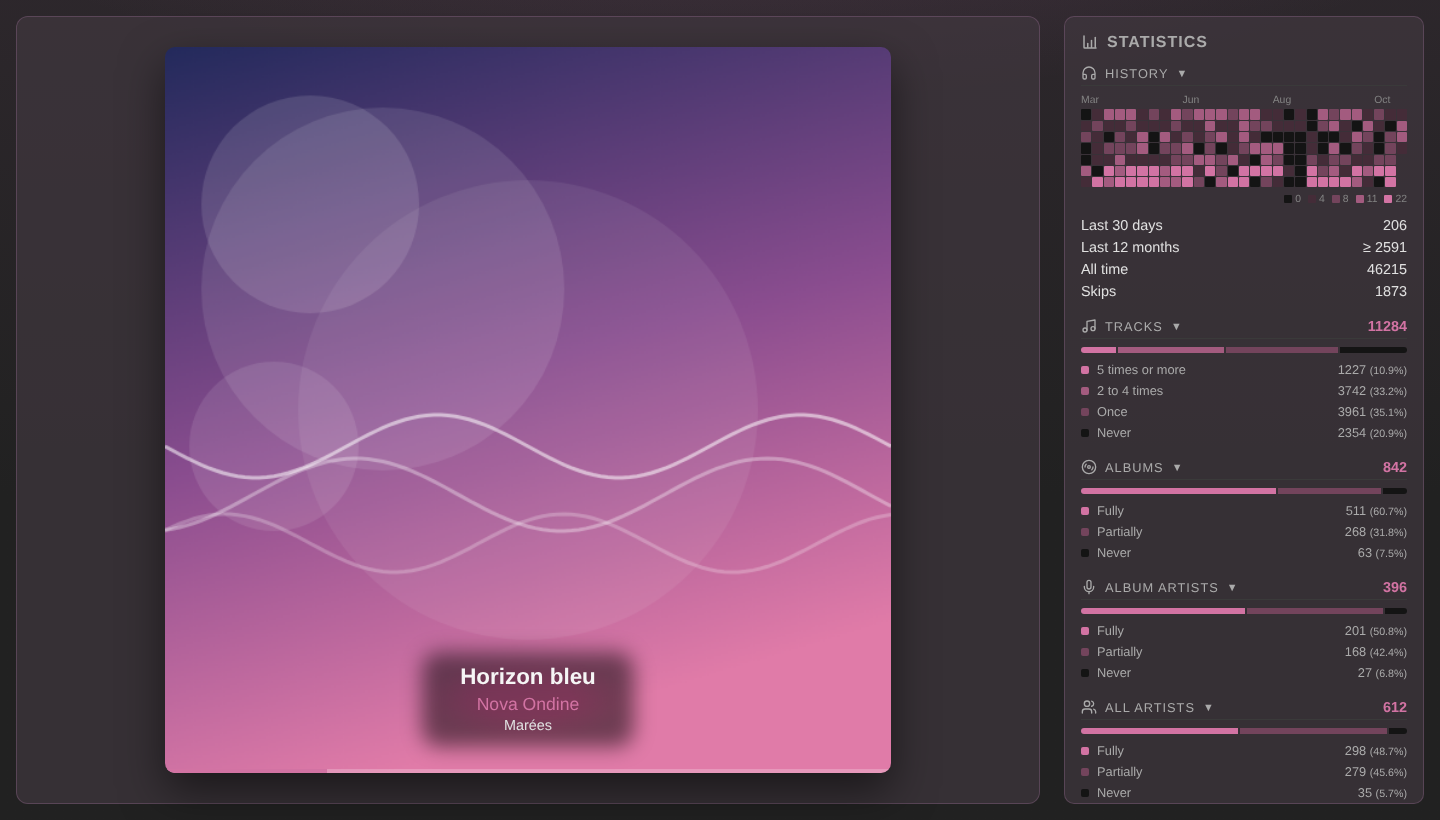
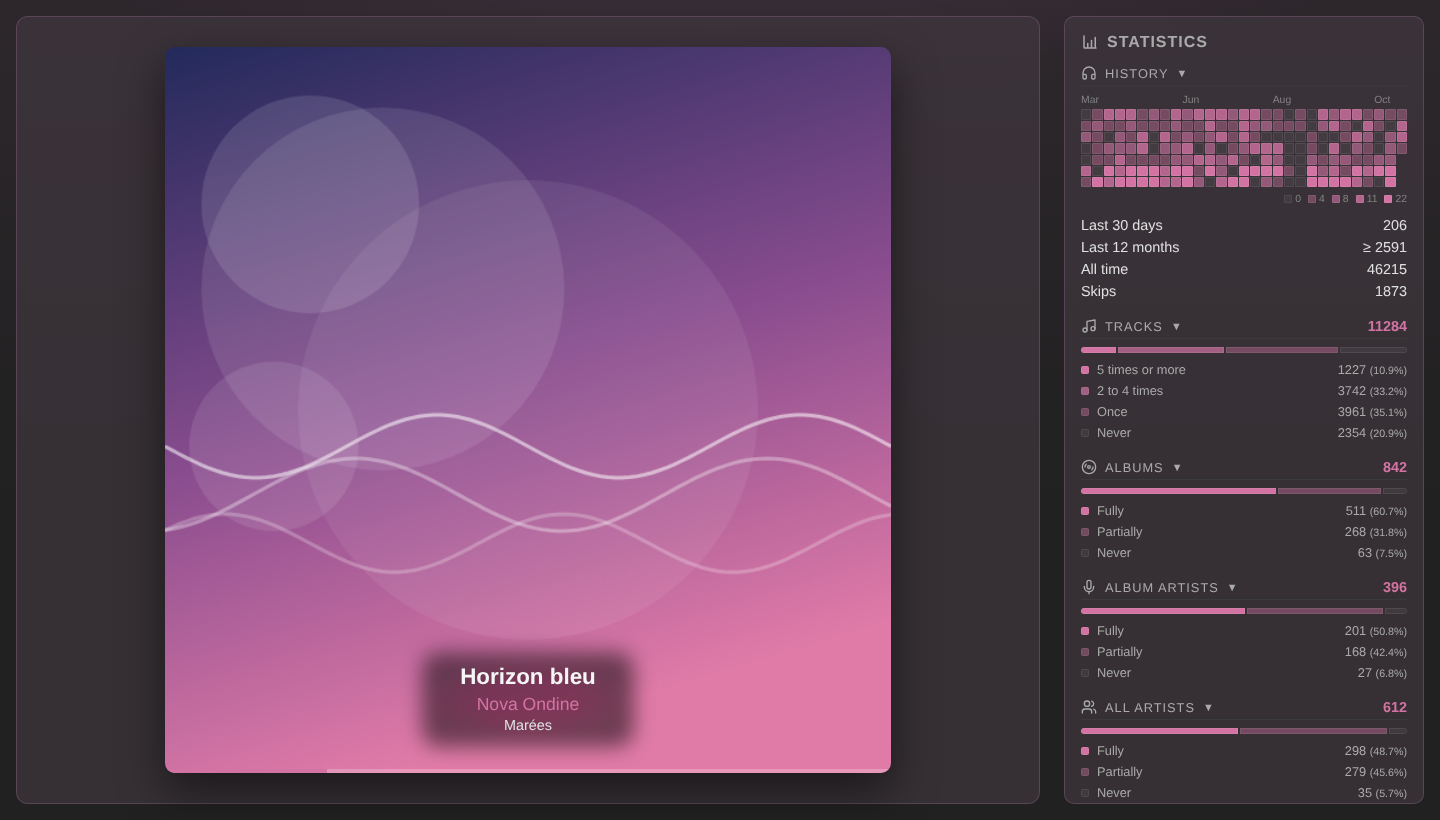
fix(stats): shade the calendar and completion bars over the card, not black (#161)
* fix(stats): shade the listening calendar over the card, not black

The calendar mixed its shades into the near-black --nothing, so the
first quartile came out as a dark brown that sank into the card while
a zero day stood out in black. Shades are now the accent at 40/60/80%
opacity over the card, a zero day a 5% white veil, and every shaded
cell carries a translucent outline, as GitHub's contribution graph
does, which keeps a zero apart from the empty slots before the
history starts. The completion bars keep --nothing for never played.

Claude-Session: https://claude.ai/code/session_016eBy9U35yZNsMjphrZaaQw

* fix(stats): shade the completion bars like the listening calendar

The bars still mixed their shades into the near-black --nothing, so a
never-played segment was the most striking one. They now take the
calendar's scale: the accent, then 70% and 40% of it over the card,
and the same faint veil for never played, with the same translucent
outline on segments and markers. --nothing goes away; --empty-fill
and --cell-edge carry the shared values.

Claude-Session: https://claude.ai/code/session_016eBy9U35yZNsMjphrZaaQw

* docs(screenshots): restore two captures the bars don't appear in

demo-lyrics and demo-recent were re-encoded by the regeneration with
identical pixels; keep the previous files.

Claude-Session: https://claude.ai/code/session_016eBy9U35yZNsMjphrZaaQw

---------

Changed region(s): [[0.75, 0.122, 1.0, 0.2439], [0.9375, 0.3963, 0.9688, 0.4573]]

diff --git a/static/style.css b/static/style.css
@@ -33,7 +33,8 @@
     --border-color: #3a3a3a;   /* hairlines: rules, cover edge */
     --page-pad: 16px;          /* body gutter, subtracted by the viewport-fitting calc */
     --surface: #303030;        /* raised neutral fills: progress track, cards */
-    --nothing: #141414;        /* a play level or a day with no plays at all */
+    --empty-fill: rgba(255, 255, 255, 0.05);  /* a play level never reached, a day without plays */
+    --cell-edge: inset 0 0 0 1px rgba(255, 255, 255, 0.08);
     --text-error: #ffb7c0;
     transition: --tint-color 900ms ease, --accent-color 900ms ease;
 }
@@ -215,9 +216,9 @@ hr {
 }
 
 .stat-level-1 { --level-color: var(--accent-color); }
-.stat-level-2 { --level-color: color-mix(in srgb, var(--accent-color) 75%, var(--nothing)); }
-.stat-level-3 { --level-color: color-mix(in srgb, var(--accent-color) 50%, var(--nothing)); }
-.stat-level-4 { --level-color: var(--nothing); }
+.stat-level-2 { --level-color: color-mix(in srgb, var(--accent-color) 70%, transparent); }
+.stat-level-3 { --level-color: color-mix(in srgb, var(--accent-color) 40%, transparent); }
+.stat-level-4 { --level-color: var(--empty-fill); }
 
 .stat-bar {
     display: flex;
@@ -231,6 +232,7 @@ hr {
 .stat-bar-seg {
     flex: 0 0 0;
     background: var(--level-color);
+    box-shadow: var(--cell-edge);
 }
 
 .listening-calendar {
@@ -280,10 +282,11 @@ hr {
     border-radius: 1px;
 }
 
-.calendar-level-0 { background: var(--nothing); }
-.calendar-level-1 { background: color-mix(in srgb, var(--accent-color) 25%, var(--nothing)); }
-.calendar-level-2 { background: color-mix(in srgb, var(--accent-color) 50%, var(--nothing)); }
-.calendar-level-3 { background: color-mix(in srgb, var(--accent-color) 75%, var(--nothing)); }
+.calendar-day[class*="calendar-level-"] { box-shadow: var(--cell-edge); }
+.calendar-level-0 { background: var(--empty-fill); }
+.calendar-level-1 { background: color-mix(in srgb, var(--accent-color) 40%, transparent); }
+.calendar-level-2 { background: color-mix(in srgb, var(--accent-color) 60%, transparent); }
+.calendar-level-3 { background: color-mix(in srgb, var(--accent-color) 80%, transparent); }
 .calendar-level-4 { background: var(--accent-color); }
 
 .calendar-legend {
@@ -338,6 +341,7 @@ hr {
     height: 8px;
     border-radius: 2px;
     background: var(--level-color);
+    box-shadow: var(--cell-edge);
 }
 
 .now-playing {

diff --git a/.claude/skills/frontend/SKILL.md b/.claude/skills/frontend/SKILL.md
@@ -119,9 +119,9 @@ The card shows a 512px thumbnail; the overlay paints that cached thumbnail first
 
 ## Stats panel
 
-Each `.stat-group` folds on a click of its title; collapsed, it hides its `.stat-row`s but keeps its title total and its `.stat-bar`. The completion groups (tracks, albums, both artist counts) carry that bar: one `.stat-bar-seg` per sub row, sized by `flex-grow` from the row's percentage. The CSP refuses inline `style` attributes, so the template ships each percentage as `data-pct` and `paintStatBars` applies it through the CSSOM, on load and after every `/stats.json` poll; a zero segment is `hidden` so it leaves no gap. Each segment's `title` is copied from its legend row (`statBarTitle`), so hovering the bar of a collapsed group still gives the figures. A `stat-level-1`…`stat-level-4` class on both the segment and its row sets `--level-color`, the row's square marker doubling as the bar's legend: the accent for the most played, then 75% and 50% of it mixed into `--nothing`, and `--nothing` itself (near-black) for never played: one scale from black to the accent, shared with the listening calendar.
+Each `.stat-group` folds on a click of its title; collapsed, it hides its `.stat-row`s but keeps its title total and its `.stat-bar`. The completion groups (tracks, albums, both artist counts) carry that bar: one `.stat-bar-seg` per sub row, sized by `flex-grow` from the row's percentage. The CSP refuses inline `style` attributes, so the template ships each percentage as `data-pct` and `paintStatBars` applies it through the CSSOM, on load and after every `/stats.json` poll; a zero segment is `hidden` so it leaves no gap. Each segment's `title` is copied from its legend row (`statBarTitle`), so hovering the bar of a collapsed group still gives the figures. A `stat-level-1`…`stat-level-4` class on both the segment and its row sets `--level-color`, the row's square marker doubling as the bar's legend: the accent for the most played, then the accent at 70% and 40% opacity over the card, and `--empty-fill` (a 5% white veil) for never played. Segments and markers carry `--cell-edge`, a 1px translucent inset outline: the same scale and outline as the listening calendar, so a level never reached stays faint instead of standing out.
 
-The History group opens with the listening calendar (`#listening-calendar`) when `/stats.json` carries a `listening_calendar`, hidden otherwise. It ships as JSON in `#calendar-data` and `renderCalendar` rebuilds it — only when the data changed — on load and after each stats poll: one column per Monday-to-Sunday week up to the server's `today`, starting a year back or at the history's `start` when that is younger — though never fewer than `CALENDAR_MIN_WEEKS` (26) columns, which caps the size of a day — `calendar-level-0` (`--nothing`, as for the bars' never-played level) for a day without plays and four shades cut at the quartiles of the days with plays, so they fit each library's pace: 25, 50 and 75% of the accent mixed into `--nothing`, then the accent itself, so a day with no plays is the first step of the scale rather than a hole in it. Days before the history's `start`, only drawn when the history is shorter than that minimum, stay transparent and unlabelled, so they never read as days without music. Month names come from `Intl` in the page's language, from the history's first column on and one every `CALENDAR_LABEL_WEEKS` columns since a month is too narrow for its name in the side panel; each day's `title` carries its date and count. The legend under it follows each shade with its upper bound (`.calendar-bound`): 0, the three quartile thresholds, then the busiest day's count. The expanded strip then keeps only the most recent weeks that fit the box at `CALENDAR_MIN_DAY_PX` (10px) a day — about 26 to 33 in the side panel — measured from the box's width and redrawn on resize, so a year's history never shrinks the days below that. Collapsing the History group swaps it for `.calendar-weeks`, one row with a cell per week of the same span, shaded at the quartiles of the week totals (`calendarWeeks`), and reveals the 12-month figure in the group title (`.collapsed-only`, titled with its label); expanded, the row and the title figure hide again. Below it, a velocity whose `_partial` flag is set (`data-stat-partial`) reads `≥ N` with `velocity_partial` as its title, rendered by the template and kept by `renderStats`.
+The History group opens with the listening calendar (`#listening-calendar`) when `/stats.json` carries a `listening_calendar`, hidden otherwise. It ships as JSON in `#calendar-data` and `renderCalendar` rebuilds it — only when the data changed — on load and after each stats poll: one column per Monday-to-Sunday week up to the server's `today`, starting a year back or at the history's `start` when that is younger — though never fewer than `CALENDAR_MIN_WEEKS` (26) columns, which caps the size of a day — `calendar-level-0` (`--empty-fill`, as for the bars' never-played level) for a day without plays and four shades cut at the quartiles of the days with plays, so they fit each library's pace: the accent at 40, 60 and 80% opacity over the card, then the accent itself, so even the quietest day reads as orange and a day with no plays stays faint instead of standing out. Every shaded cell, zero included, carries `--cell-edge`, which is what tells a zero apart from an empty slot. Days before the history's `start`, only drawn when the history is shorter than that minimum, stay transparent, unoutlined and unlabelled, so they never read as days without music. Month names come from `Intl` in the page's language, from the history's first column on and one every `CALENDAR_LABEL_WEEKS` columns since a month is too narrow for its name in the side panel; each day's `title` carries its date and count. The legend under it follows each shade with its upper bound (`.calendar-bound`): 0, the three quartile thresholds, then the busiest day's count. The expanded strip then keeps only the most recent weeks that fit the box at `CALENDAR_MIN_DAY_PX` (10px) a day — about 26 to 33 in the side panel — measured from the box's width and redrawn on resize, so a year's history never shrinks the days below that. Collapsing the History group swaps it for `.calendar-weeks`, one row with a cell per week of the same span, shaded at the quartiles of the week totals (`calendarWeeks`), and reveals the 12-month figure in the group title (`.collapsed-only`, titled with its label); expanded, the row and the title figure hide again. Below it, a velocity whose `_partial` flag is set (`data-stat-partial`) reads `≥ N` with `velocity_partial` as its title, rendered by the template and kept by `renderStats`.
 
 ## Mosaic and recent-plays pile
 
